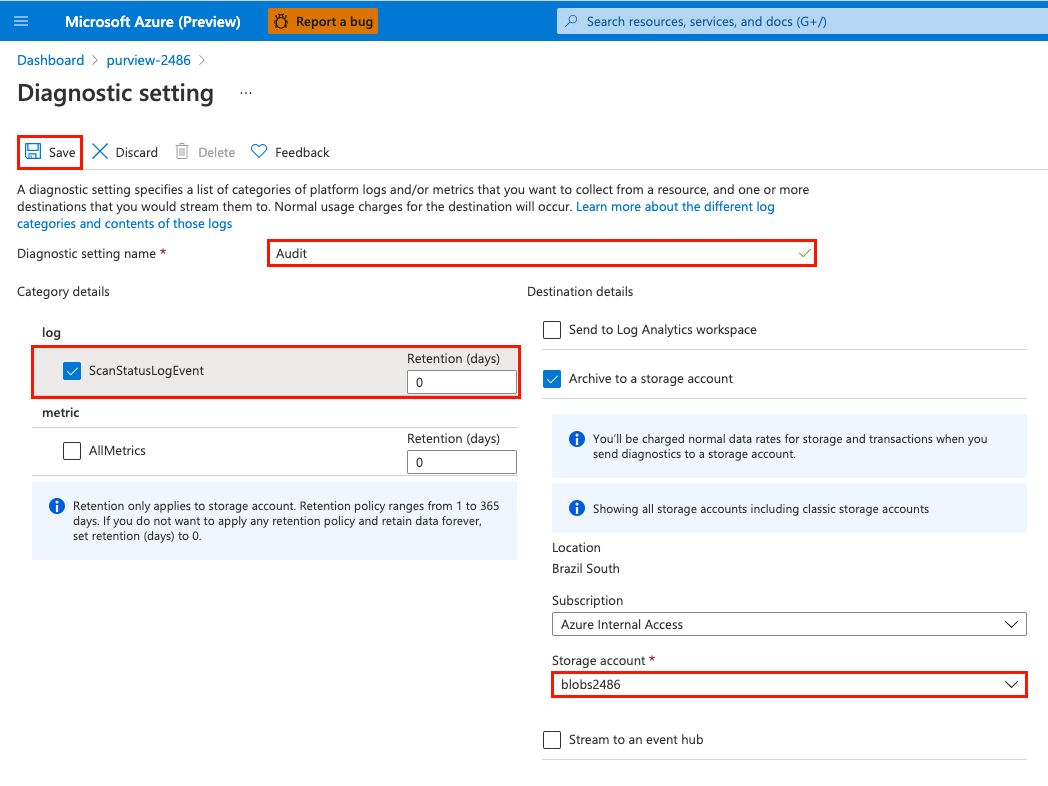
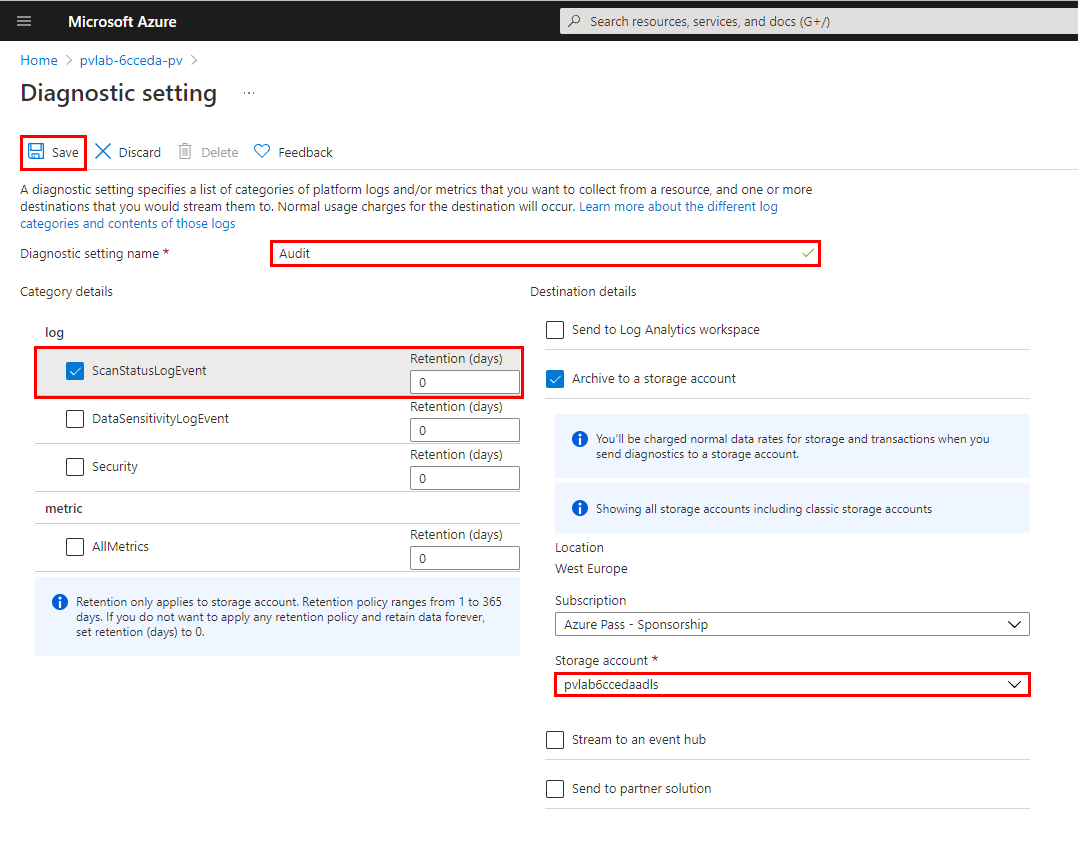
images

Changed region(s): [[0.0, 0.0, 1.0, 0.7634], [0.4885, 0.6412, 1.0, 0.9771], [0.916, 0.7328, 0.9466, 0.7634]]

diff --git a/modules/module08.md b/modules/module08.md
@@ -6,6 +6,7 @@
 
 * An [Azure account](https://azure.microsoft.com/en-us/free/) with an active subscription.
 * An Azure Azure Purview account (see [module 01](../modules/module01.md)).
+* Your subscription must have the **Microsoft.Insights** resource provider registered.
 
 ## :loudspeaker: Introduction
 
@@ -86,35 +87,7 @@ Metrics can be accessed from the Azure Portal for an Azure Purview account insta
 
 ## 3. Send Diagnostic Logs to Azure Storage
 
-1. Navigate to the Azure Portal, and **create** a **Storage account**.
-
-    ![Create Storage Account](../images/module08/08.10-storage-create.png)
-
-2. Provide the necessary inputs on the **Basics** tab and click **Review + create**.
-
-    > Note: The table below provides example values for illustrative purposes only, ensure to specify values that make sense for your deployment.
-
-    | Parameter  | Example Value |
-    | --- | --- |
-    | Subscription | `Azure Internal Access` |
-    | Resource group | `purview-workshop` |
-    | Storage account name | `blob2486` |
-    | Location | `(South America) Brazil South` |
-    | Performance | `Standard` |
-    | Account kind | `StorageV2 (general purpose v2)` |
-    | Replication | `Locally-redundant storage (LRS)` |
-
-    ![Review Storage Account](../images/module08/08.11-storage-review.png)
-
-3. Click **Create**.
-
-    ![Provision Storage Account](../images/module08/08.12-storage-provision.png)
-
-4. Monitor your deployment until the status changes to **Your deployment is complete**.
-
-    ![Storage Account Ready](../images/module08/08.13-storage-complete.png)
-
-5. Navigate to your **Azure Purview** account instance, click **Diagnostic settings** and select **Add diagnostic setting**.
+1. Navigate to your **Azure Purview** account instance, click **Diagnostic settings** and select **Add diagnostic setting**.
 
     > :bulb: **Did you know?**
     >
@@ -122,7 +95,7 @@ Metrics can be accessed from the Azure Portal for an Azure Purview account insta
 
     ![Add Diagnostic Setting](../images/module08/08.14-diagnostic-add.png)
 
-6. Provide the diagnostic setting a name (e.g. `Audit`), select **ScanStatusLogEvent**, select **Archive to a storage account**, select your storage account (e.g. `blob2486`) and click **Save**.
+2. Provide the diagnostic setting a name (e.g. `Audit`), select **ScanStatusLogEvent**, select **Archive to a storage account**, select your storage account (e.g. `blob2486`) and click **Save**.
 
     > :bulb: **Did you know?**
     >
@@ -130,27 +103,27 @@ Metrics can be accessed from the Azure Portal for an Azure Purview account insta
 
     ![Save Diagnostic Setting](../images/module08/08.15-diagnostic-save.png)
 
-7. To test the capture of raw events, trigger a full scan by navigating to **Azure Purview Studio** > **Sources** and click **View details** on an existing source.
+3. To test the capture of raw events, trigger a full scan by navigating to **Azure Purview Studio** > **Sources** and click **View details** on an existing source.
 
     ![Source Details](../images/module08/08.16-sources-details.png)
 
-8. Navigate to the **Scans** tab and click the name of a previously run scan.
+4. Navigate to the **Scans** tab and click the name of a previously run scan.
 
     ![Source Scans](../images/module08/08.17-sources-scans.png)
 
-9. Open the **Run scan now** drop-down menu and select **Full Scan**.
+5. Open the **Run scan now** drop-down menu and select **Full Scan**.
 
     ![Full Scan](../images/module08/08.18-scan-full.png)
 
-10. Monitor the scan status by periodically click the **Refresh** button.
+6. Monitor the scan status by periodically click the **Refresh** button.
 
     ![Scan Progress](../images/module08/08.19-scan-progress.png)
 
-11. Once the scan is complete, open your storage account within the Azure Portal and navigate to **Storage Explorer**. If the audit log has been captured, you should be able to navigate down the folder path until you find a JSON document that contains details about the scan. Note: You can also use [Storage Explorer](https://azure.microsoft.com/en-us/features/storage-explorer/) as an alternative to the Azure Portal.
+7. Once the scan is complete, open your storage account within the Azure Portal and navigate to **Storage Explorer**. If the audit log has been captured, you should be able to navigate down the folder path until you find a JSON document that contains details about the scan. Note: You can also use [Storage Explorer](https://azure.microsoft.com/en-us/features/storage-explorer/) as an alternative to the Azure Portal.
 
     ![Storage Explorer](../images/module08/08.20-storage-explorer.png)
 
-12. Download and open a local copy of the JSON file to see the details (e.g. dataSourceName, dataSourceType, assetsDiscovered, scanTotalRunTimeInSeconds, etc).
+8. Download and open a local copy of the JSON file to see the details (e.g. dataSourceName, dataSourceType, assetsDiscovered, scanTotalRunTimeInSeconds, etc).
 
     ![Event JSON](../images/module08/08.21-event-json.png)
 
